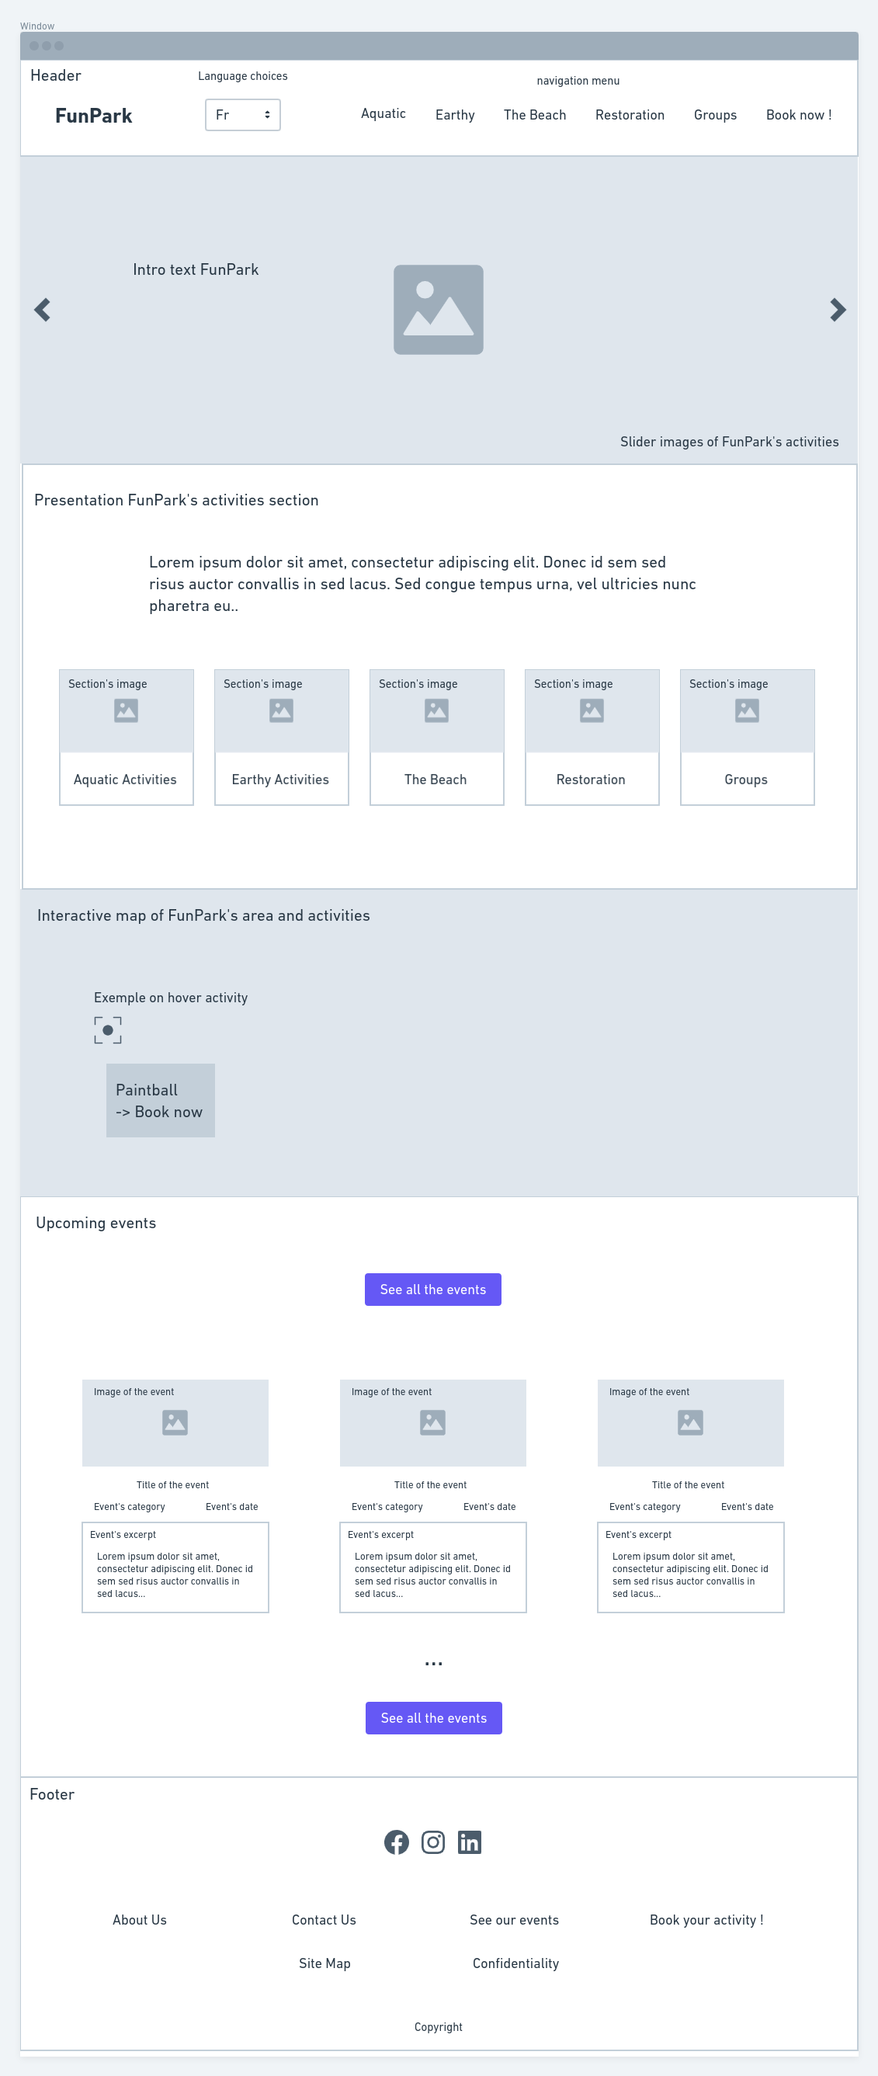
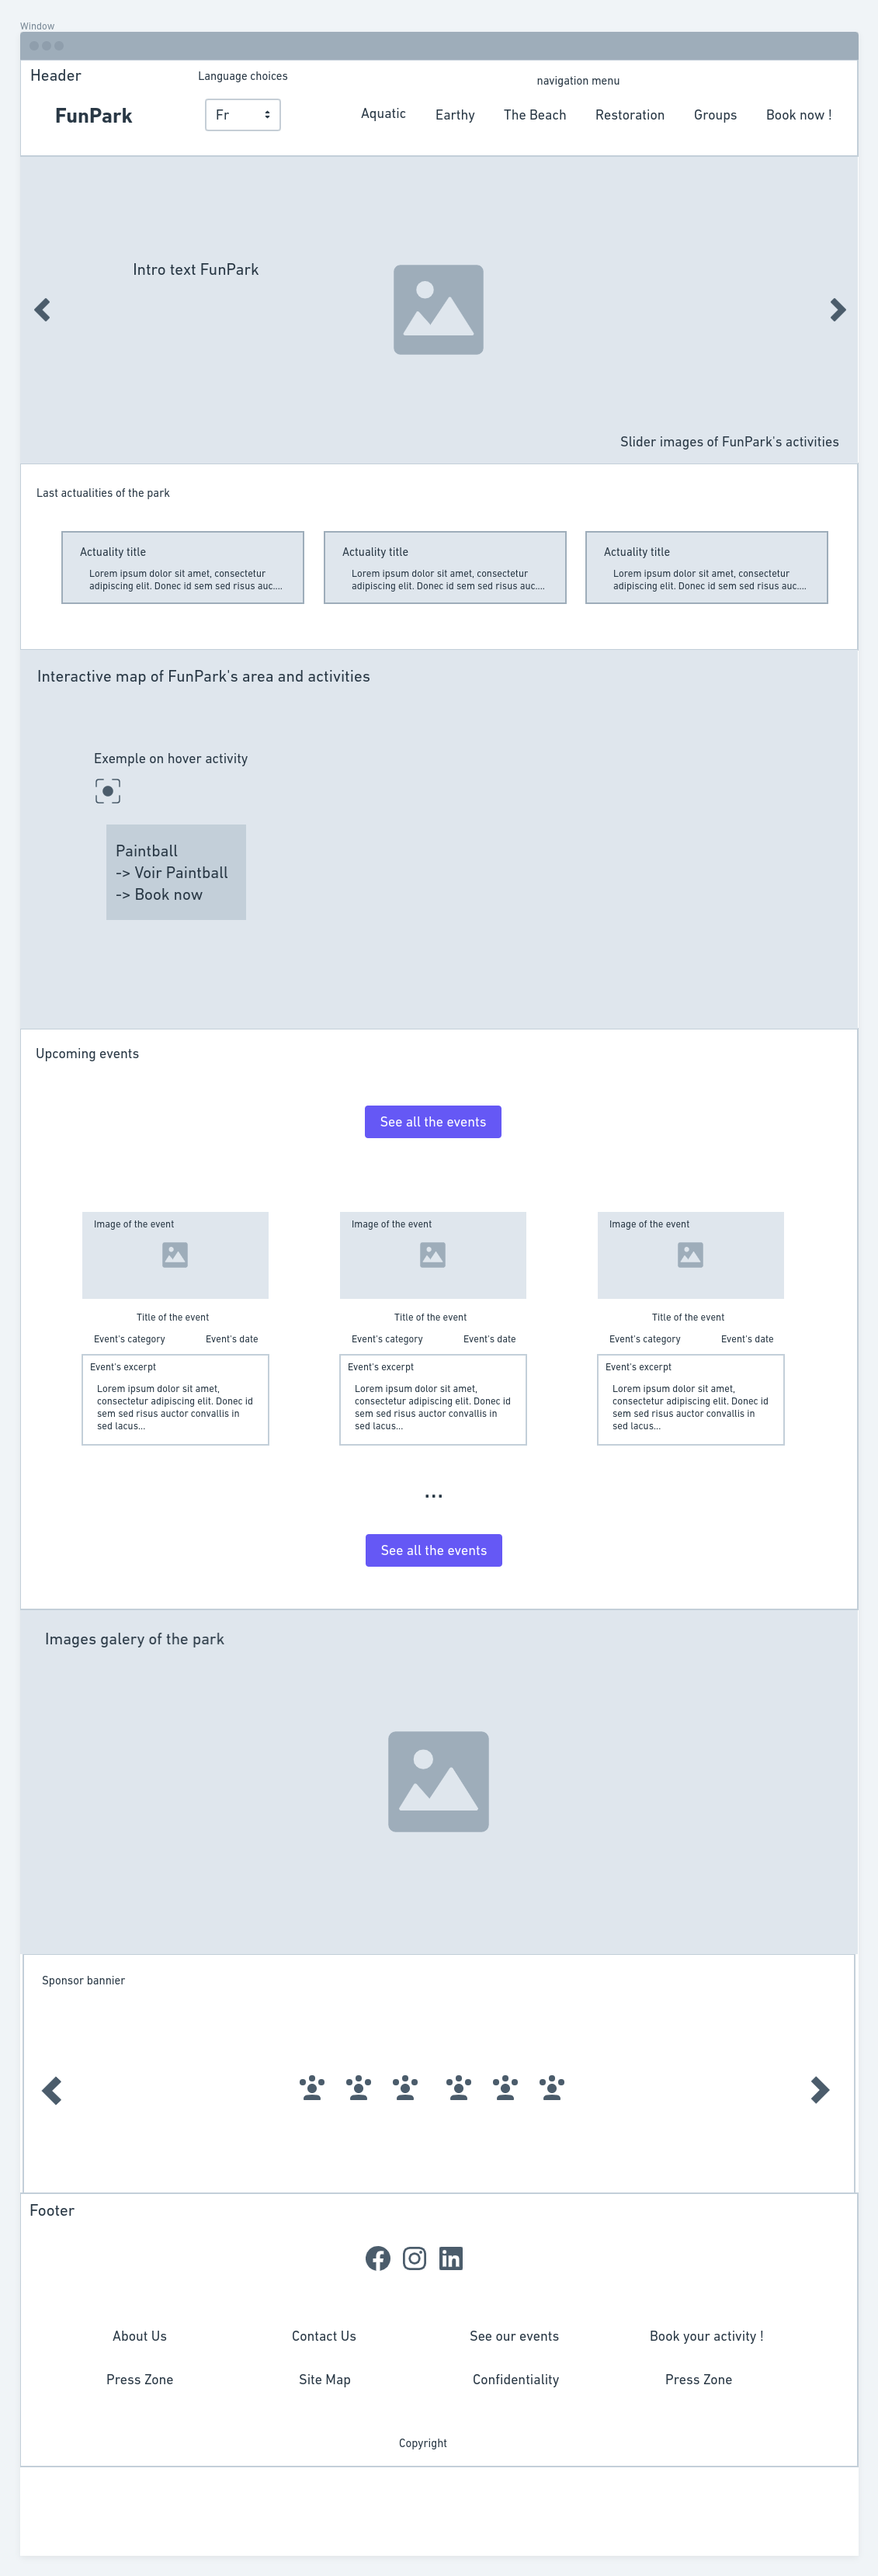
Better cp1

diff --git a/cahier_des_charges/cahier_des_charges.md b/cahier_des_charges/cahier_des_charges.md
@@ -1,51 +1,34 @@
 ### Présentation du projet
 
 Fun Park est un projet de reprise d'un parc aventure préexistant.<br/>
-Toutes les activités seront conservées:  
-- Accrobranche<br/>
-- Tyrolienne<br/>
-- Paintball<br/>
-- Laser tag<br/>
-- Parcours aventure en forêt<br/>
--> Chasse au trésor<br/>
--> Course d’orientation<br/>
--> Randonnée<br/>
--> Raid aventure<br/>
--> Géocaching<br/>
--> Gyropode<br/>
-- Trampoline<br/>
-- Mini golf<br/>
-- Parc aquatique<br/>
--> Canoes<br/>
--> Pédalos<br/>
--> Paddle<br/>
--> Wakeboard<br/>
--> Kneeboard<br/>
--> Ski nautique<br/>
--> Bouée tractée<br/>
-- Accueil de groupes (anniversaires, EVJF/G, séminaires, ...)<br/>
-- Possibilité de se restaurer sur place (restaurant, snack)<br/>
+La plupart des activités seront conservées et d'autres seront développer par le client:  
+
+- Activités terrestres 
+-> Accrobranche<br/>
+-> Tyrolienne<br/>
+-> Paintball<br/>
+-> Trampoline<br/>
+-> Mini golf<br/>
+- Activités aquatiques<br/>
+-> Téléski Nautique<br/>
+-> Aqua Park<br/>
+-> WaterJump<br/>
+-> Pédalo- Barque<br/>
+-> Terrasses Flottantes<br/>
+- Restauration<br/>
+-> Restaurant<br/>
+-> Terrasses<br/>
+- Accueil de groupes<br/>
+-> Team Building - Séminaires<br/>
+-> Anniversaires<br/>
+-> EVJF - ENG<br/>
+-> Groupes scolaires<br/><br/>
 
 Chaque activité pourra être réservée individuellement ou en "parcours de journée" avec d'autres activités, sur place ou sur le site internet.
 
-Un des objectifs de Fun Park est aussi de développer son parc aquatique, en particulier les sports nautiques tractés tels que le wakeboard, le ski nautique et le kneeboard, en vue de devenir un lieu réputé pour la pratique de ces sports de glisse, très peu développer dans le secteur.
+Un des objectifs de Fun Park est aussi de développer son parc aquatique, en particulier les sports nautiques tractés en vue de devenir un lieu réputé pour la pratique de ces sports de glisse, très peu présent dans le secteur.
 
 A la vue de travaux à effectuer pour certaines activités, une liste des activités "ouvertes au public" sera donné par le client.<br/><br/>
-
-
-### Définition des besoins et objectifs du projet
-
-Fun Park souhaite donné au parc une nouvelle direction: le rendre plus dynamique, plus convivial et créer d'autres activités/évènements avec le temps.
-
-Bien qu'un site internet existait déjà avant, ce dernier n'est plus dans "l'air du temps" et ne correspond pas à l'image du parc que veut donner l'équipe de Fun Park.
-
-
-Les objectifs seront :
-- définir une nouvelle charte graphique
-- rendre le parcours utilisateur le plus simple possible
-- intégrer la langue anglaise et allemande en plus du français
-- intégrer une nouveau système de réservation et paiement
-- dynamiser le site en particulier en intégrant une carte interactive du parc<br/><br/>
 
 
 ### Définition de la cible du projet
@@ -53,6 +36,20 @@ Les objectifs seront :
 Le public visé est transgénérationnel.
 Situé tout près de l'Allemagne, Fun Park s'adresse également à ses voisins germanophones.
 Avec le développement des sports tractés du parc aquatique, Fun Park peut aussi prétendre intéresser un public venant de Suisse, de Belgique et du Luxembourg.<br/><br/>
+
+
+### Définition des besoins et objectifs du projet
+
+Bien qu'un site internet existait avant, ce dernier n'est plus dans "l'air du temps" et ne correspond pas à l'image du parc que veut véhiculer l'équipe de Fun Park.
+
+Fun Park souhaite donné au parc une nouvelle direction: le rendre plus dynamique, via la création dévènements, plus convivial, en développant des zones détentes, et créer d'autres activités avec le temps.
+
+Les objectifs seront :
+- définir une charte graphique
+- rendre le parcours utilisateur clair et le plus simple possible
+- intégrer la langue anglaise et allemande en plus du français
+- intégrer une nouveau système de réservation et paiement
+- dynamiser le site en particulier en intégrant une carte interactive du parc<br/><br/>
 
 
 ### User stories
@@ -63,26 +60,35 @@ Des user stories ont été rédigées pour un utilisateur visiteur et administra
 
 #### Minimum Viable Product
 
-Accès Visiteur
+Visiteur
 - Site en français
 - Présentation des activités "ouvertes au public"
 - Présentation de chaque activité "ouverte au public"
 - Réservation de chaque activité individuellement ou "en groupe"
 - Possibilité de contacter Fun Park via un formulaire de contact
 
-Accès Administrateur
+Administrateur
 - Accès au back office
 - Pouvoir créer les activités du parc
+- Pouvoir créer les évènements du parc
+- Pouvoir créer les actualités du parc
 - Pouvoir accéder aux réservations "ouvertes au public"
 
 
 #### Evolutions
 
-Il s'agira:
-- d'ajouter les nouvelles activités "ouvertes au public"
-- d'intégrer la carte interactive du parc
-- d'ajouter la langue allemande et anglaise
-- d'ajouter la création d'évènements<br/><br/>
+Visiteur
+- Listes de évènements
+- Accès à un évènement
+- Listes des actualités
+- Accès à une actualité
+- intégrer la carte interactive du parc
+- ajouter la langue allemande et anglaise
+
+Administrateur
+- ajouter les nouvelles activités "ouvertes au public"
+- création d'évènements
+- création d'actualités<br/><br/>
 
 
 ### Technololgies utilisées pour le projet
@@ -91,10 +97,6 @@ Afin d'élaborer le site internet de Fun Park, les technologies suivantes seront
 - le CMS Wordpress pour le back-end et le front-end
 - un template Wordpress le front-end
 - le plugin WPML pour le multilingue
-- Mapplic pour la carte interactive
+- le plugin Mapplic pour la carte interactive
+- le plugin Event Calendar pour la gestion des évènements
 - intégration de Guidap pour les modules de réservation et paiement<br/><br/>
-
-
-### Arborescence de l'application
-
-L'arborescence du site a été réalisé avec Whimsical. (cf arborescence_funpark.png)

diff --git a/cahier_des_charges/user-stories.md b/cahier_des_charges/user-stories.md
@@ -3,18 +3,21 @@
 
 | En tant que | Je veux | Afin de (si besoin/nécessaire) |
 |--|--|--|
-| visiteur | Je veux pouvoir accéder à la liste des activités de FunPark | afin de choisir l'une d'entre elles |
-| visiteur | Je veux pouvoir accéder à une carte interactive du parc | afin d'avoir une vue d'ensemble du parc et ses activités |
-| visiteur | Je veux pouvoir accéder à une des activités de FunPark | afin d'accéder à toutes les informations sur l'activité que je souhaite faire |
-| visiteur | Je veux pouvoir réserver une activité | afin de m'assurer de la faire |
-| visiteur | Je veux pouvoir réserver plusieurs activités sur une même page | afin de gagner du temps lors de la navigation sur le site  |
-| visiteur | Je veux pouvoir accéder à une liste d'évènements de FunPark | afin de me tenir informé des évènements de FunPark |
+| visiteur | Je veux accéder à la liste des activités de FunPark | afin de choisir l'une d'entre elles |
+| visiteur | Je veux accéder à une des activités de FunPark | afin d'accéder à toutes les informations sur l'activité que je souhaite faire |
+| visiteur | Je veux réserver une activité | afin de m'assurer de la faire |
+| visiteur | Je veux réserver plusieurs activités sur une même page | afin de gagner du temps lors de la navigation sur le site  |
+| visiteur | Je veux accéder à une carte interactive du parc | afin d'avoir une vue d'ensemble du parc et ses activités |
+| visiteur | Je veux accéder à une liste d'évènements de FunPark | afin de me tenir informé des évènements de FunPark |
+| visiteur | Je veux accéder à un des évènements de FunPark | afin de me renseigner dur l'évènement |
+| visiteur | Je veux accéder aux dernières actualités de FunPark | afin de me renseigner dur l'évènement |
 | visiteur | Je veux pouvoir choisir entre plusieurs langues sur le site | afin de comprendre le contenu du site  |
-| visiteur | Je veux pouvoir contacter le parc | afin de pouvoir poser une question, faire une remarque, etc |
-| visiteur | Je veux pouvoir voir les mentions légales | |
-| visiteur | Je veux pouvoir voir la section a propos | afin d'en savoir plus sur l'histoire du parc et mettre des visages sur ses propriétaires et le staff |
+| visiteur | Je veux contacter le parc | afin de pouvoir poser une question, faire une remarque, etc |
+| visiteur | Je veux voir les mentions légales | |
+| visiteur | Je veux voir la section a propos | afin d'en savoir plus sur l'histoire du parc et mettre des visages sur ses propriétaires et le staff |
 | administrateur | Je veux pouvoir accéder à tout ce que peut accéder le visiteur | afin de contrôler le rendu des pages |
 | administrateur | Je veux pouvoir me connecter au backoffice de mon site | afin de pouvoir administrer le site |
 | administrateur | Je veux pouvoir administrer mes activités | afin de pouvoir en créer, éditer, supprimer |
 | administrateur | Je veux pouvoir administrer mes évènements | afin de pouvoir en créer, éditer, supprimer |
+| administrateur | Je veux pouvoir administrer mes actualités | afin de pouvoir en créer, éditer, supprimer |
 | administrateur | Je veux pouvoir administrer mes réservations (module externe)| afin de pouvoir organiser mon staff en fonction |

diff --git a/README.md b/README.md
@@ -1,17 +1,16 @@
 # Fun Park
 
-Le projet porte sur l'élaboration d'un cahier des charges et la création de wireframes en vue de la création d'un site pour un parc aventure :<br/><br/>
+Le projet porte sur l'élaboration d'un début de cahier des charges et de wireframes en vue de la création d'un site pour un parc aventure :<br/><br/>
 
 ### Cahier des charges 
 
-Le cahier des charges comprendra:(cf dossier cahier des charges)
+Le cahier des charges comprend:(cf dossier cahier des charges)
 - la présentation du projet
 - la définition des besoins et objectifs du projet
 - la définition de la cible du projet
 - la définition des fonctionnalités du projet
 - les users stories
-- les technologies utilisées
-- l'arborescence du site<br/><br/>
+- les technologies utilisées<br/><br/>
 
 ### Wireframes
 
